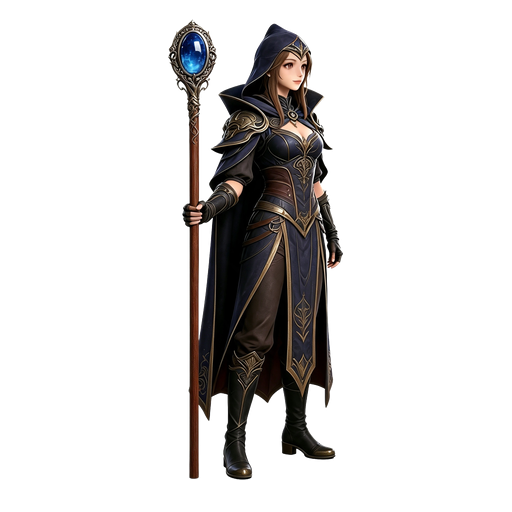
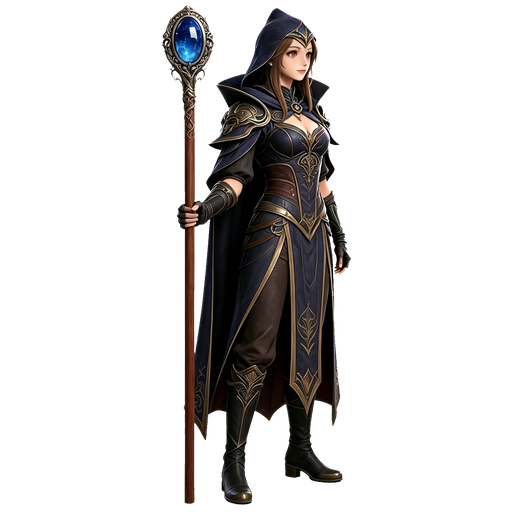
fix(companion): idle 抠图白边清理 + 尺寸调整（target_h 461→500）
- 白边：合成灰底判据（lum>175 半透像素清零）+ 3x3 侵蚀，15%→0.78%，GLM 无白边。
- 大小：站立素材宽高比 0.379 偏瘦，放大到 500 高/189 宽（面积约 walk 92%），
  解决 idle 角色显得瘦小的问题。

Changed region(s): [[0.3125, 0.0, 0.6875, 1.0]]

diff --git a/SKILL.md b/SKILL.md
@@ -5155,6 +5155,14 @@ lint / vite build / test-collider / test-config-integrity；实机验证 idle/wa
     改判重播条件前先确认动画 repeat 语义（repeat 0 会自然停 → 不能只查 isPlaying；
     repeat -1 循环 → isPlaying 恒 true → 可安全用）。探针 F 场景：
     walk→idle→walk 循环切换恢复播放 ✓。单测 135/135、npm test 51/51。
+- **idle 抠图白边 + 大小（2026-08-14 九修）**：
+  - 白边：BiRefNet 边缘半透像素 unpremultiply 反推偏白 + 2048→512 缩放插值产生白圈。
+    处理（红狼人同款）：① 合成灰底(127)判据——半透像素合成后亮度 >175 = 白边残留 → alpha 清零；
+    ② 3×3 最小值滤波侵蚀边缘，去掉半透明白圈。边缘白边 15% → 0.78%，GLM 复验无白边、细节完整。
+  - 大小：idle 素材（luna.png 2048²）角色宽高比 0.379，动画素材（walk/run）约 0.52——
+    按高度对齐后 idle 宽 175 vs walk 202-243，显得瘦小。折中：target_h 461→500、feet_y 505
+    （宽 189、高 500，视觉面积约为 walk 的 92%）。**站立姿态窄是素材比例，强行宽度匹配会超高出格**。
+    动画对齐基准：所有动画 frameWidth/frameHeight 512、显示由 spriteSize 控制。
 
 ---
 
